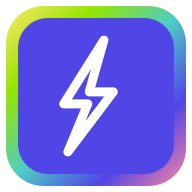
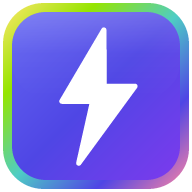
PWAアイコンを統一デザインに更新 — レインボーボーダー＋3色グラデ＋ガラス＋塗りつぶし稲妻

diff --git a/app/icon.tsx b/app/icon.tsx
@@ -7,7 +7,7 @@ export const size = {
 };
 export const contentType = 'image/png';
 
-// ファビコン生成 — Landing Pageアイコン再現（レインボーボーダー＋稲妻ストローク）
+// ファビコン生成 — レインボーボーダー＋3色グラデ＋ガラス＋塗りつぶし稲妻
 export default function Icon() {
     return new ImageResponse(
         (
@@ -18,47 +18,44 @@ export default function Icon() {
                     display: 'flex',
                     alignItems: 'center',
                     justifyContent: 'center',
-                    position: 'relative',
+                    background: 'linear-gradient(135deg, #FFE66D 0%, #95E500 25%, #4ECDC4 50%, #4F46E5 75%, #FF85A2 100%)',
+                    borderRadius: '8px',
                 }}
             >
-                {/* レインボーボーダー背景 */}
+                {/* 内側: グラデーション背景 + ガラス + 稲妻 */}
                 <div
                     style={{
-                        width: '32px',
-                        height: '32px',
+                        width: '26px',
+                        height: '26px',
                         display: 'flex',
                         alignItems: 'center',
                         justifyContent: 'center',
-                        background: 'linear-gradient(135deg, #FFE66D 0%, #95E500 25%, #4ECDC4 50%, #4F46E5 75%, #FF85A2 100%)',
-                        borderRadius: '8px',
+                        background: 'linear-gradient(135deg, #6366F1 0%, #4F46E5 50%, #7C3AED 100%)',
+                        borderRadius: '6px',
+                        position: 'relative',
                     }}
                 >
-                    {/* Indigo 内側背景 */}
                     <div
                         style={{
+                            position: 'absolute',
+                            top: 0,
+                            left: 0,
                             width: '26px',
-                            height: '26px',
-                            display: 'flex',
-                            alignItems: 'center',
-                            justifyContent: 'center',
-                            background: '#4F46E5',
-                            borderRadius: '6px',
+                            height: '13px',
+                            background: 'linear-gradient(180deg, rgba(255,255,255,0.18) 0%, rgba(255,255,255,0) 100%)',
+                            borderRadius: '6px 6px 0 0',
                         }}
-                    >
-                        {/* ⚡ 稲妻ボルト — ストロークスタイル */}
-                        <svg
-                            viewBox="0 0 24 24"
-                            width="16"
-                            height="16"
-                            fill="none"
+                    />
+                    <svg viewBox="0 0 24 24" width="14" height="14">
+                        <path
+                            d="M13.5 2.5L7 13h4.5L9 21.5l8.5-11h-4.5z"
+                            fill="white"
                             stroke="white"
-                            strokeWidth="2.5"
-                            strokeLinecap="round"
+                            strokeWidth="0.8"
                             strokeLinejoin="round"
-                        >
-                            <path d="M13 10V3L4 14h7v7l9-11h-7z" />
-                        </svg>
-                    </div>
+                            strokeLinecap="round"
+                        />
+                    </svg>
                 </div>
             </div>
         ),

diff --git a/app/apple-icon.tsx b/app/apple-icon.tsx
@@ -7,7 +7,7 @@ export const size = {
 };
 export const contentType = 'image/png';
 
-// Landing Pageアイコン再現（レインボーボーダー＋稲妻ストローク）
+// レインボーボーダー＋3色グラデ＋ガラス＋塗りつぶし稲妻
 export default function AppleIcon() {
     return new ImageResponse(
         (
@@ -18,46 +18,44 @@ export default function AppleIcon() {
                     display: 'flex',
                     alignItems: 'center',
                     justifyContent: 'center',
+                    background: 'linear-gradient(135deg, #FFE66D 0%, #95E500 25%, #4ECDC4 50%, #4F46E5 75%, #FF85A2 100%)',
+                    borderRadius: '40px',
                 }}
             >
-                {/* レインボーボーダー背景 */}
+                {/* 内側: グラデーション背景 + ガラス + 稲妻 */}
                 <div
                     style={{
-                        width: '180px',
-                        height: '180px',
+                        width: '150px',
+                        height: '150px',
                         display: 'flex',
                         alignItems: 'center',
                         justifyContent: 'center',
-                        background: 'linear-gradient(135deg, #FFE66D 0%, #95E500 25%, #4ECDC4 50%, #4F46E5 75%, #FF85A2 100%)',
-                        borderRadius: '40px',
+                        background: 'linear-gradient(135deg, #6366F1 0%, #4F46E5 50%, #7C3AED 100%)',
+                        borderRadius: '32px',
+                        position: 'relative',
                     }}
                 >
-                    {/* Indigo 内側背景 */}
                     <div
                         style={{
+                            position: 'absolute',
+                            top: 0,
+                            left: 0,
                             width: '150px',
-                            height: '150px',
-                            display: 'flex',
-                            alignItems: 'center',
-                            justifyContent: 'center',
-                            background: '#4F46E5',
-                            borderRadius: '32px',
+                            height: '75px',
+                            background: 'linear-gradient(180deg, rgba(255,255,255,0.18) 0%, rgba(255,255,255,0) 100%)',
+                            borderRadius: '32px 32px 0 0',
                         }}
-                    >
-                        {/* ⚡ 稲妻ボルト — ストロークスタイル */}
-                        <svg
-                            viewBox="0 0 24 24"
-                            width="90"
-                            height="90"
-                            fill="none"
+                    />
+                    <svg viewBox="0 0 24 24" width="78" height="78">
+                        <path
+                            d="M13.5 2.5L7 13h4.5L9 21.5l8.5-11h-4.5z"
+                            fill="white"
                             stroke="white"
-                            strokeWidth="2"
-                            strokeLinecap="round"
+                            strokeWidth="0.8"
                             strokeLinejoin="round"
-                        >
-                            <path d="M13 10V3L4 14h7v7l9-11h-7z" />
-                        </svg>
-                    </div>
+                            strokeLinecap="round"
+                        />
+                    </svg>
                 </div>
             </div>
         ),

diff --git a/components/LandingPage.tsx b/components/LandingPage.tsx
@@ -37,7 +37,7 @@ export default function LandingPage() {
                     {t('title')}
                 </h1>
 
-                <p className="text-xl sm:text-2xl text-gray-600 mb-12 max-w-2xl mx-auto font-medium leading-relaxed">
+                <p className="text-xl sm:text-2xl text-gray-600 mb-12 max-w-3xl mx-auto font-medium leading-relaxed whitespace-nowrap">
                     {t('subtitle')}
                     <br />
                     <span className="text-[var(--accent-coral)] font-bold">{t('compete')}</span>, <span className="text-[var(--accent-turquoise)] font-bold">{t('collectBadges')}</span>, {t.rich('stayActive', { span: (chunks) => <span className="text-[var(--accent-lime)] font-bold">{chunks}</span> })}
